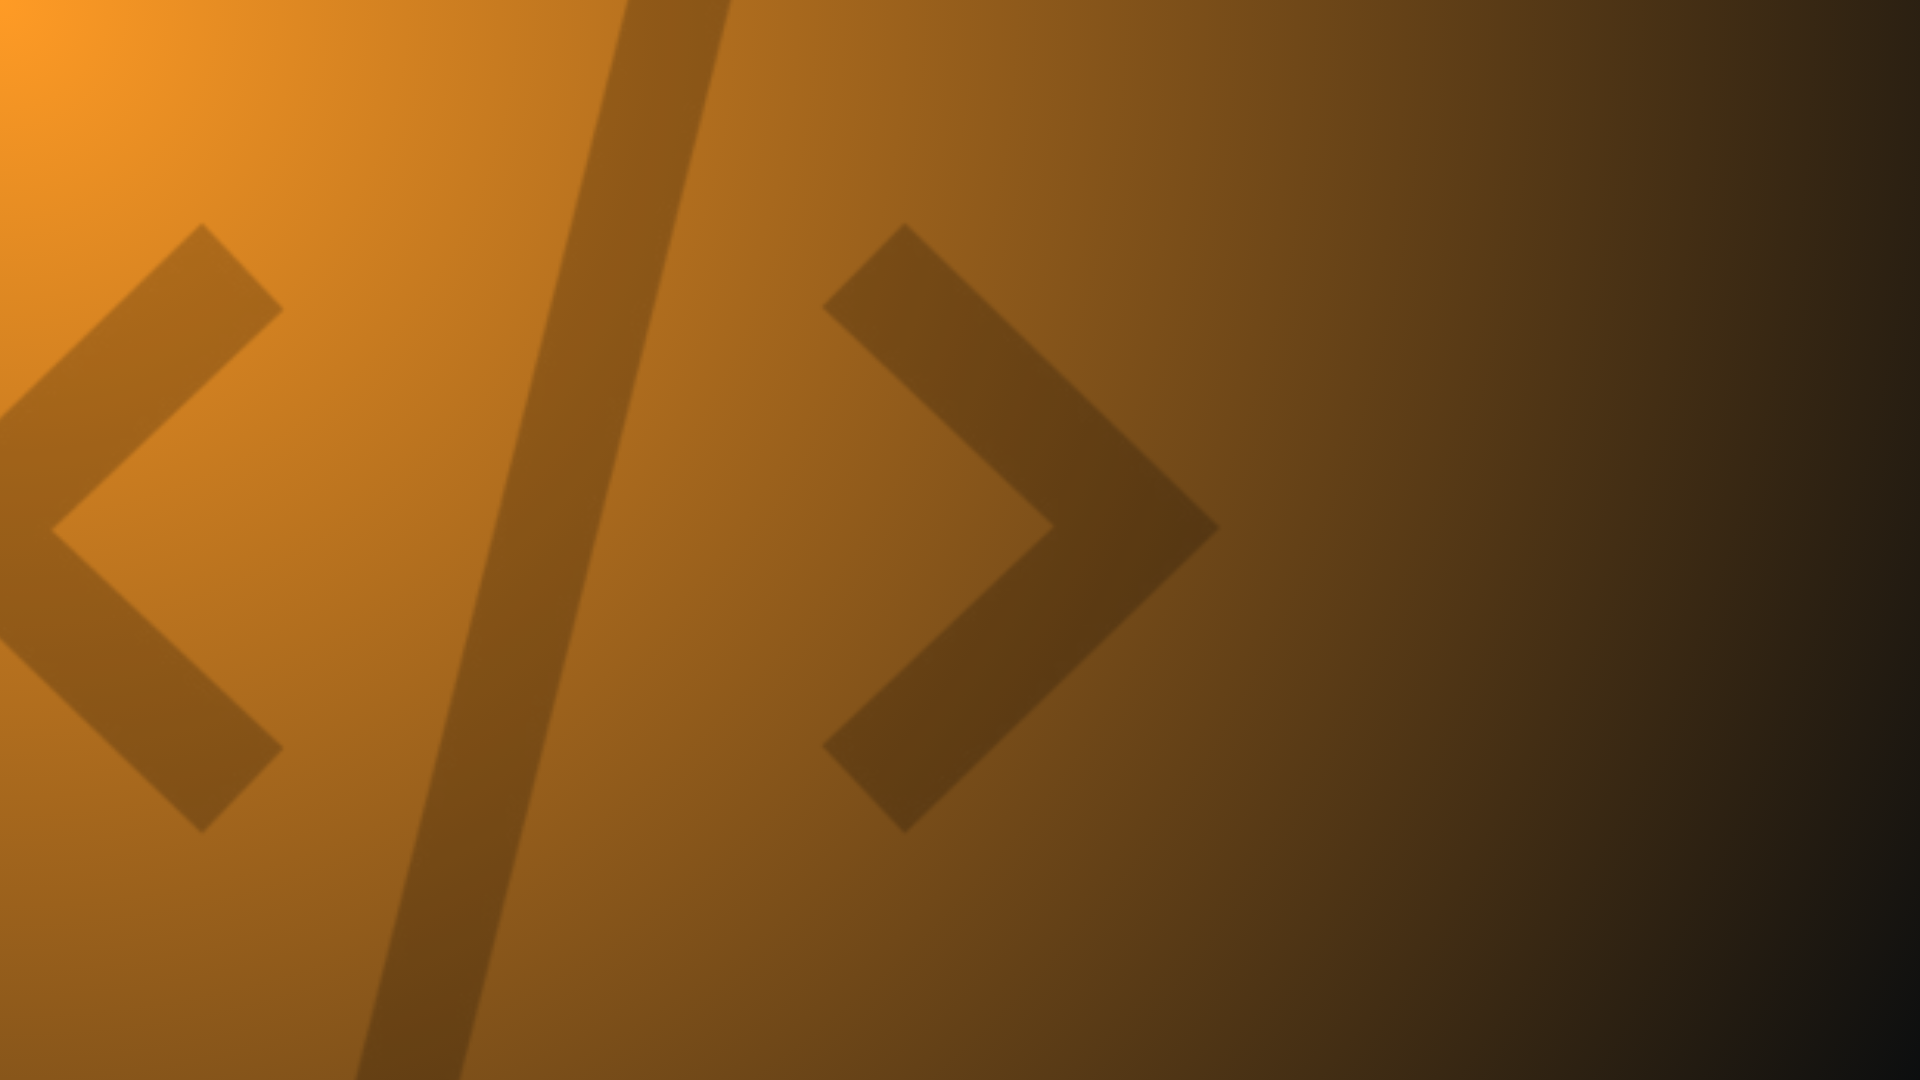
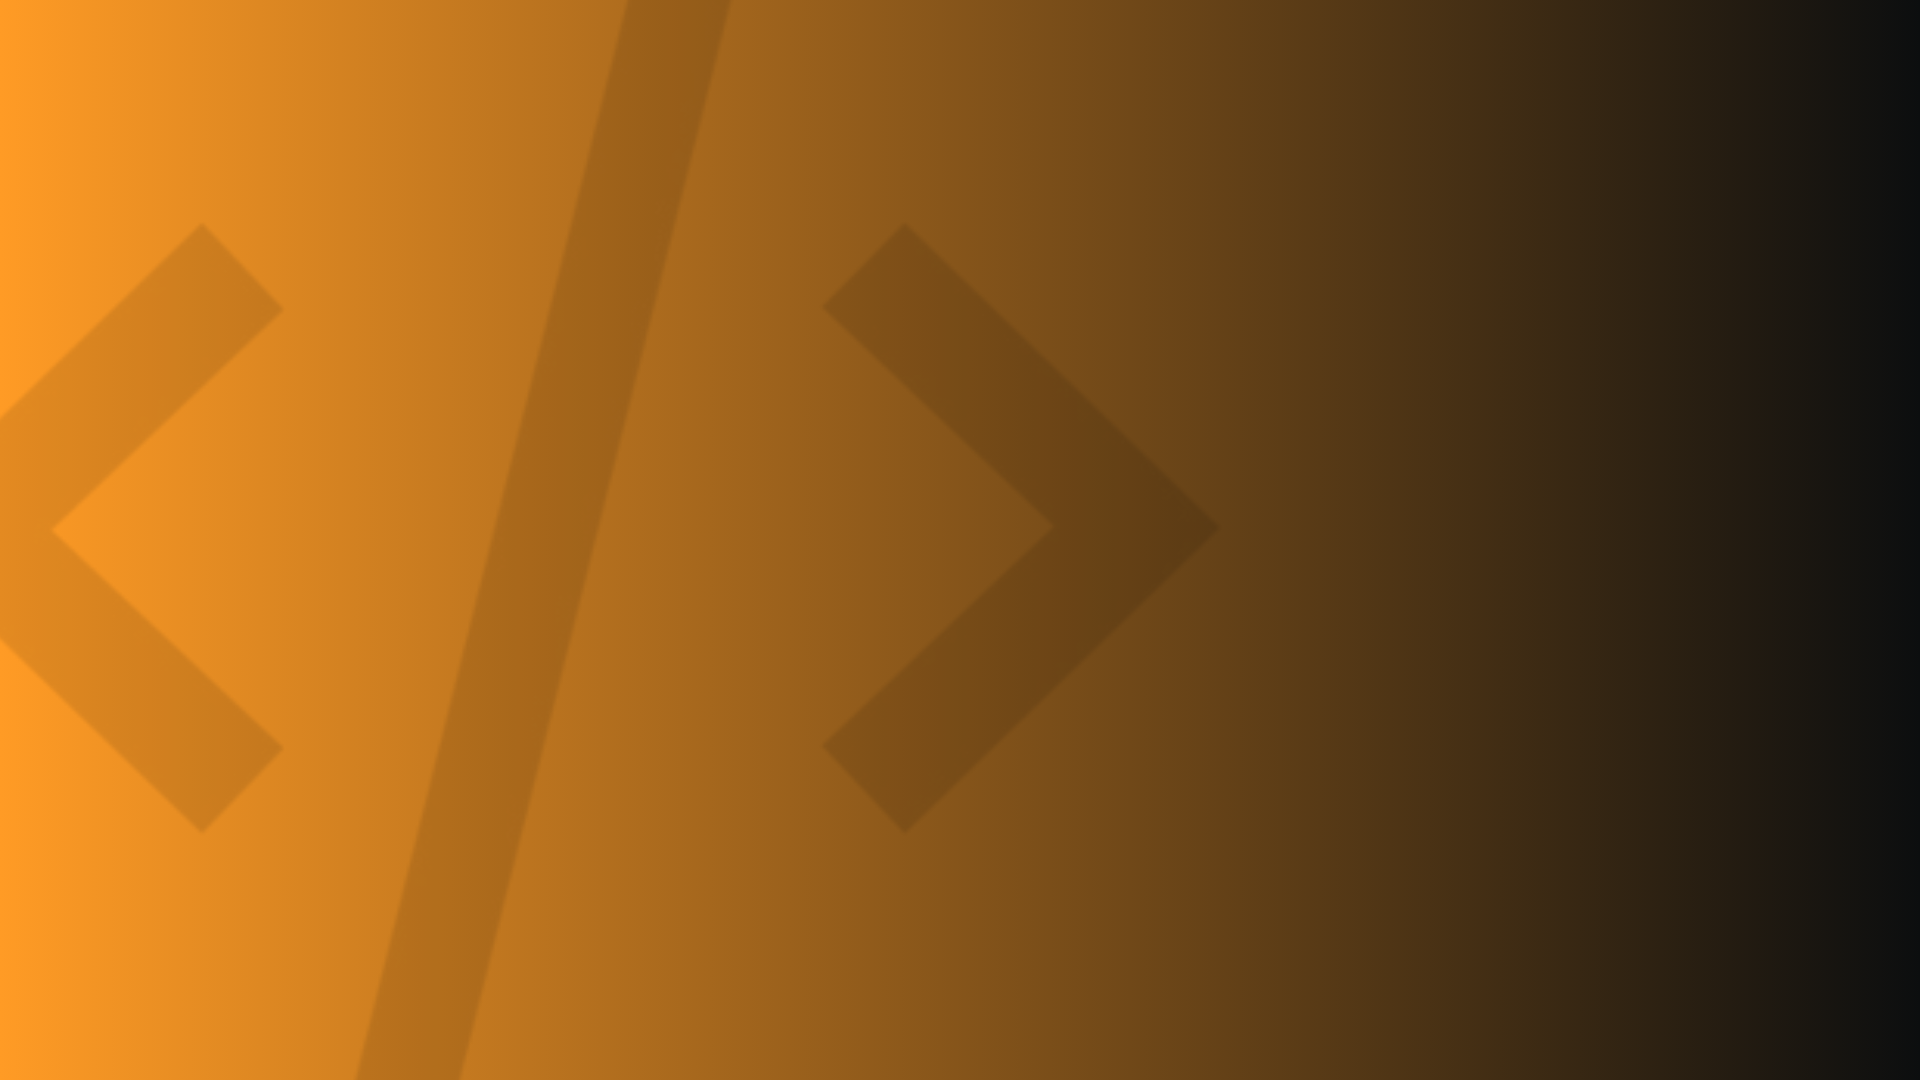
save

diff --git a/public/style.css b/public/style.css
@@ -12,15 +12,14 @@ html, body {
     height: 100%;
     overflow: hidden; 
     font-family: 'Montserrat', sans-serif;
+    background-color: #424242;
 }
 
 
 h2 {
     padding: 10%;
 }
-h3 {
-    padding: 10% 0px;
-}
+
 
 
 /* Conteneur principal */
@@ -82,11 +81,16 @@ header {
     transition: left 0.3s ease;
     overflow-y: auto;
     z-index: 1100;
+    
+    display: flex;
+    justify-content: center; /* Centrage horizontal des éléments enfants */
+    align-items: center;     /* Centrage vertical des éléments enfants */
 }
 
 .menu ul {
     list-style: none;
-    padding: 20px;
+    padding: 0;
+    gap: 100px;
     margin: 0;
     display: flex;
     flex-direction: column;
@@ -123,7 +127,8 @@ section {
 
 
 #accueil {
-    background: linear-gradient(to top, #333 60%, #4e4e4e);
+    /* background: linear-gradient(to top, #333 60%, #4e4e4e); */
+    background-image: url(./img/fond.png);
     color: #ffd27e;
     display: flex;
     justify-content: center;
@@ -136,21 +141,21 @@ section {
 
 .text-container {
     position: absolute;
-    top: 35%;
+    top: 30%;
     left: 50%;
     transform: translate(-50%, -50%);
 }
 
 #accueil h1 {
-    font-size: 60px;
-    letter-spacing: 8px;
-    color: #ffd27e;
+    font-size: 100px;
+    letter-spacing: 20px;
+    color: white;
 }
 
 #accueil h3 {
-    font-size: 20px;
-    letter-spacing: 4px;
-    color: #ffd9a8;
+    font-size: 30px;
+    letter-spacing: 8px;
+    color: #ffd46f94;
 }
 
 #accueil-img {
@@ -194,6 +199,7 @@ section {
 
 .profile-header {
     margin-bottom: 30px;
+    margin-top: 30px;
 }
 
 .profile-header img {
@@ -272,7 +278,7 @@ section {
 
 /* Section Projets */
 #projets {
-    background: #333;
+    background-image: url(./img/fond2.png);
     color: #ffd27e;
     padding: 40px 20px;
     width: 100%;

diff --git a/public/index.html b/public/index.html
@@ -5,7 +5,7 @@
     <meta charset="UTF-8">
     <meta http-equiv="X-UA-Compatible" content="IE=edge">
     <meta name="viewport" content="width=device-width, initial-scale=1.0">
-    <title>PORTFOLIO - BILAL TAOUFIK</title>
+    <title>Portfolio de Bilal Taoufik | Développeur Web et 3D</title>
     <link rel="shortcut icon" href="./img/image.png" type="image/x-icon">
     <link rel="stylesheet" href="style.css">
 </head>
@@ -31,7 +31,7 @@
                 <h3>Hi, I'm</h3>
                 <h1>BILAL</h1>
             </div>
-            <img id="accueil-img" src="./img/image.png" alt="Bilal Image">
+            <img id="accueil-img" src="" alt="">
             <img id="icon-scroll" src="./img/icon-scroll.png" alt="Icon Scroll">
         </section>
 
@@ -46,7 +46,7 @@
                 <p>From : <span>France</span></p>
             </div>
             <div class="skills">
-                <h2>Compétences :</h2>
+                <h2>Skills :</h2>
                 <div class="skill">
                     <span>HTML/CSS</span>
                     <div class="skill-bar">
